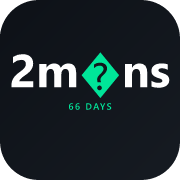
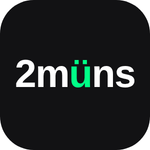
fix: 정품 워드마크 아이콘 원복 및 캐시 무효화(?v=3) 적용

diff --git a/app/manifest.ts b/app/manifest.ts
@@ -6,17 +6,17 @@ export default function manifest(): MetadataRoute.Manifest {
     name: "2müns - 66일 습관 형성",
     icons: [
       {
-        src: "/icon-192x192.png?v=5",
+        src: "/icon-192x192.png?v=3",
         sizes: "192x192",
         type: "image/png",
       },
       {
-        src: "/icon-512x512.png?v=5",
+        src: "/icon-512x512.png?v=3",
         sizes: "512x512",
         type: "image/png",
       },
       {
-        src: "/icon.svg?v=5",
+        src: "/icon.svg?v=3",
         sizes: "any",
         type: "image/svg+xml",
       },

diff --git a/app/layout.tsx b/app/layout.tsx
@@ -23,11 +23,12 @@ export const metadata: Metadata = {
   },
   icons: {
     icon: [
-      { url: "/icon-512x512.png?v=5", sizes: "512x512", type: "image/png" },
+      { url: "/icon-512x512.png?v=3", sizes: "512x512", type: "image/png" },
+      { url: "/icon-192x192.png?v=3", sizes: "192x192", type: "image/png" },
     ],
     apple: [
       {
-        url: "/apple-touch-icon.png?v=5",
+        url: "/apple-touch-icon.png?v=3",
         sizes: "180x180",
         type: "image/png",
       },
